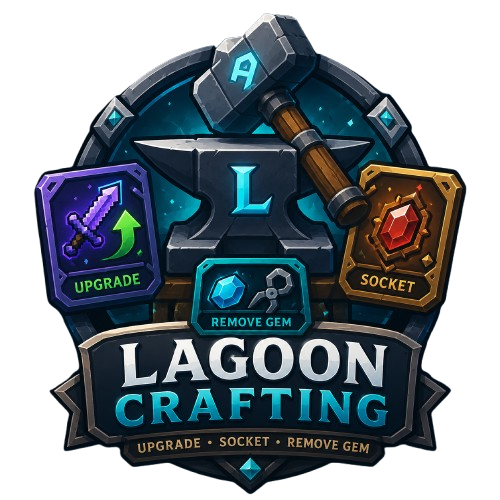
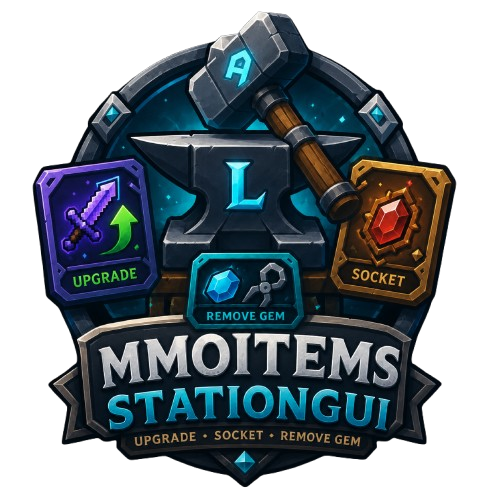
Add files via upload

diff --git a/index.html b/index.html
@@ -3,7 +3,7 @@
 <head>
   <meta charset="UTF-8" />
   <meta name="viewport" content="width=device-width, initial-scale=1.0" />
-  <title>iSynX_ | Minecraft Plugin Developer</title>
+  <title>iSynX_ | Profile</title>
   <meta
     name="description"
     content="Portfolio ca nhan cua iSynX_ - Minecraft plugin developer, server owner va owner cua LagoonVN Network."
@@ -17,7 +17,7 @@
 
   <header class="site-header">
     <a class="brand" href="#top" aria-label="iSynX_ home">
-      <span class="brand-mark">IX</span>
+      <span class="brand-mark">DEV</span>
       <span>iSynX_</span>
     </a>
 
@@ -32,10 +32,11 @@
   <main id="top">
     <section class="hero section-box reveal">
       <div class="hero-copy">
-        <p class="eyebrow">Minecraft Plugin Dev / Server Owner</p>
+        <p class="eyebrow">Minecraft Plugin Dev / LagoonVN Owner</p>
         <h1>iSynX_</h1>
         <p class="hero-text">
-            Amateur Minecraft plugin developer with over 2 years of experience in Minecraft server content development, optimization, and system security.
+            Minecraft plugin developer with over 2 years of experience in Minecraft server content development, optimization, and system security.
+            Owner of LagoonVN Network, server development and management.
         </p>
 
         <div class="hero-actions">
@@ -68,25 +69,7 @@
       </aside>
     </section>
 
-    <section id="about" class="content-grid">
-      <article class="section-box reveal">
-        <p class="eyebrow">Personal Info</p>
-        <h2>Introduce</h2>
-        <p>
-          A Minecraft plugin developer and server owner focused on creating polished,
-          scalable gameplay features for custom Minecraft networks.
-        </p>
-      </article>
-
-      <article id="role" class="section-box reveal delay-1">
-        <p class="eyebrow">Current Role</p>
-        <h2>Owner of LagoonVN Network</h2>
-        <p>
-          Leading a Minecraft network with attention to performance, player progression,
-          community systems, and long-term server identity.
-        </p>
-      </article>
-    </section>
+  
 
     <section id="projects" class="projects-section">
       <div class="section-heading reveal">
@@ -104,12 +87,12 @@
 
       <div class="project-grid">
         <article class="project-card reveal">
-          <span class="corner-badge free">Free</span>
+            <span class="corner-badge premium">$4.99</span>
           <div class="project-media">
             <img src="lagoonprofessionrpg.png" alt="LagoonProfessionRPG plugin icon" />
           </div>
           <div class="project-body">
-            <h3>LagoonProfessionRPG</h3>
+            <h3>UltimateCrafting</h3>
               <div class="project-status complete">
                   <span></span>
                   Complete
@@ -117,22 +100,45 @@
             <p>Bring your server to life with an immersive profession system featuring interactive harvesting.</p>
             <div class="project-actions">
               <a href="https://www.spigotmc.org/resources/lagoonprofessionrpg.00000/" target="_blank" rel="noreferrer">
-                Spigot Link
+                  🛒Spigot
               </a>
               <a href="https://example.com/wiki/lagoonprofessionrpg" target="_blank" rel="noreferrer">
-                Wiki
+                  🛒Buildbybit
               </a>
             </div>
           </div>
         </article>
 
+          <article class="project-card reveal delay-2">
+              <span class="corner-badge premium">$3.99</span>
+              <div class="project-media">
+                  <img src="lagooncrafting.png" alt="LagoonCrafting plugin icon" />
+              </div>
+              <div class="project-body">
+                  <h3>MMOItemsStationGUI</h3>
+                  <div class="project-status complete">
+                      <span></span>
+                      Complete
+                  </div>
+                  <p>Custom GUI for MMOItems: upgrading, socketing, gem removal, gem conversion, and leveling.</p>
+                  <div class="project-actions">
+                      <a href="https://www.spigotmc.org/resources/lagooncrafting.00000/" target="_blank" rel="noreferrer">
+                          🛒Spigot
+                      </a>
+                      <a href="https://example.com/wiki/lagooncrafting" target="_blank" rel="noreferrer">
+                          🛒Buildbybit
+                      </a>
+                  </div>
+              </div>
+          </article>
+
         <article class="project-card reveal delay-1">
-          <span class="corner-badge premium">Premium</span>
+          <span class="corner-badge premium">$6.99</span>
           <div class="project-media">
             <img src="lagoontoken.png" alt="LagoonToken plugin icon" />
           </div>
           <div class="project-body">
-            <h3>LagoonToken</h3>
+            <h3>ItemID</h3>
               <div class="project-status processing">
                   <span></span>
                   Processing
@@ -140,37 +146,60 @@
             <p>Create unlimited token and reward mechanics for Minecraft server economies.</p>
             <div class="project-actions">
               <a href="https://www.spigotmc.org/resources/lagoontoken.00000/" target="_blank" rel="noreferrer">
-                Spigot Link
+                  🛒Spigot
               </a>
               <a href="https://example.com/wiki/lagoontoken" target="_blank" rel="noreferrer">
-                Wiki
+                  🛒Buildbybit
               </a>
             </div>
           </div>
         </article>
 
-        <article class="project-card reveal delay-2">
-          <span class="corner-badge premium">Premium</span>
-          <div class="project-media">
-            <img src="lagooncrafting.png" alt="LagoonCrafting plugin icon" />
-          </div>
-          <div class="project-body">
-            <h3>LagoonCrafting</h3>
-            <div class="project-status processing">
-              <span></span>
-              Processing
-            </div>
-            <p>Custom GUI for MMOItems: upgrading, socketing, gem removal, gem conversion, and leveling.</p>
-            <div class="project-actions">
-              <a href="https://www.spigotmc.org/resources/lagooncrafting.00000/" target="_blank" rel="noreferrer">
-                Spigot Link
-              </a>
-              <a href="https://example.com/wiki/lagooncrafting" target="_blank" rel="noreferrer">
-                Wiki
-              </a>
-            </div>
-          </div>
-        </article>
+          <article class="project-card reveal delay-1">
+              <span class="corner-badge premium">$3.99</span>
+              <div class="project-media">
+                  <img src="lagoontoken.png" alt="LagoonToken plugin icon" />
+              </div>
+              <div class="project-body">
+                  <h3>ItemStorage</h3>
+                  <div class="project-status processing">
+                      <span></span>
+                      Processing
+                  </div>
+                  <p>Create unlimited token and reward mechanics for Minecraft server economies.</p>
+                  <div class="project-actions">
+                      <a href="https://www.spigotmc.org/resources/lagoontoken.00000/" target="_blank" rel="noreferrer">
+                          🛒Spigot
+                      </a>
+                      <a href="https://example.com/wiki/lagoontoken" target="_blank" rel="noreferrer">
+                          🛒Buildbybit
+                      </a>
+                  </div>
+              </div>
+          </article>
+
+          <article class="project-card reveal delay-1">
+              <span class="corner-badge premium">$12.99</span>
+              <div class="project-media">
+                  <img src="lagoontoken.png" alt="LagoonToken plugin icon" />
+              </div>
+              <div class="project-body">
+                  <h3>ExcellentDungeon</h3>
+                  <div class="project-status processing">
+                      <span></span>
+                      Processing
+                  </div>
+                  <p>Create unlimited token and reward mechanics for Minecraft server economies.</p>
+                  <div class="project-actions">
+                      <a href="https://www.spigotmc.org/resources/lagoontoken.00000/" target="_blank" rel="noreferrer">
+                          🛒Spigot
+                      </a>
+                      <a href="https://example.com/wiki/lagoontoken" target="_blank" rel="noreferrer">
+                          🛒Buildbybit
+                      </a>
+                  </div>
+              </div>
+          </article>
       </div>
     </section>
 
